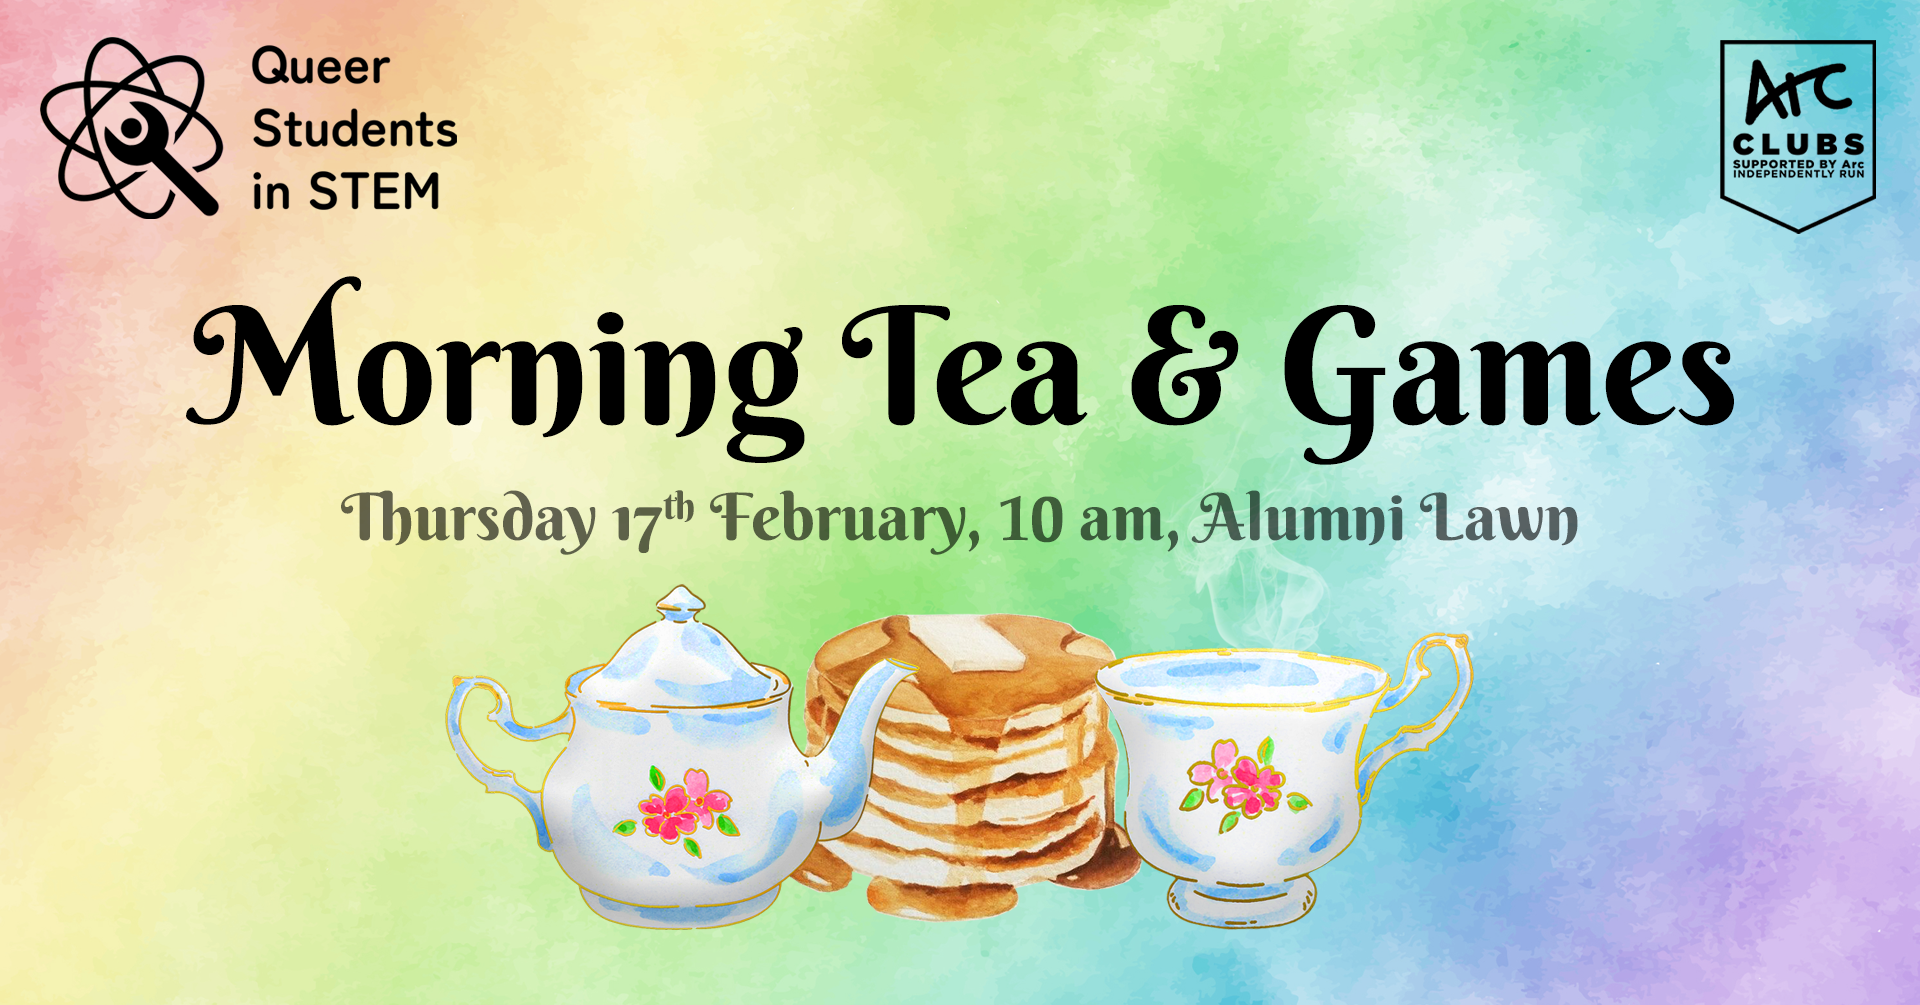
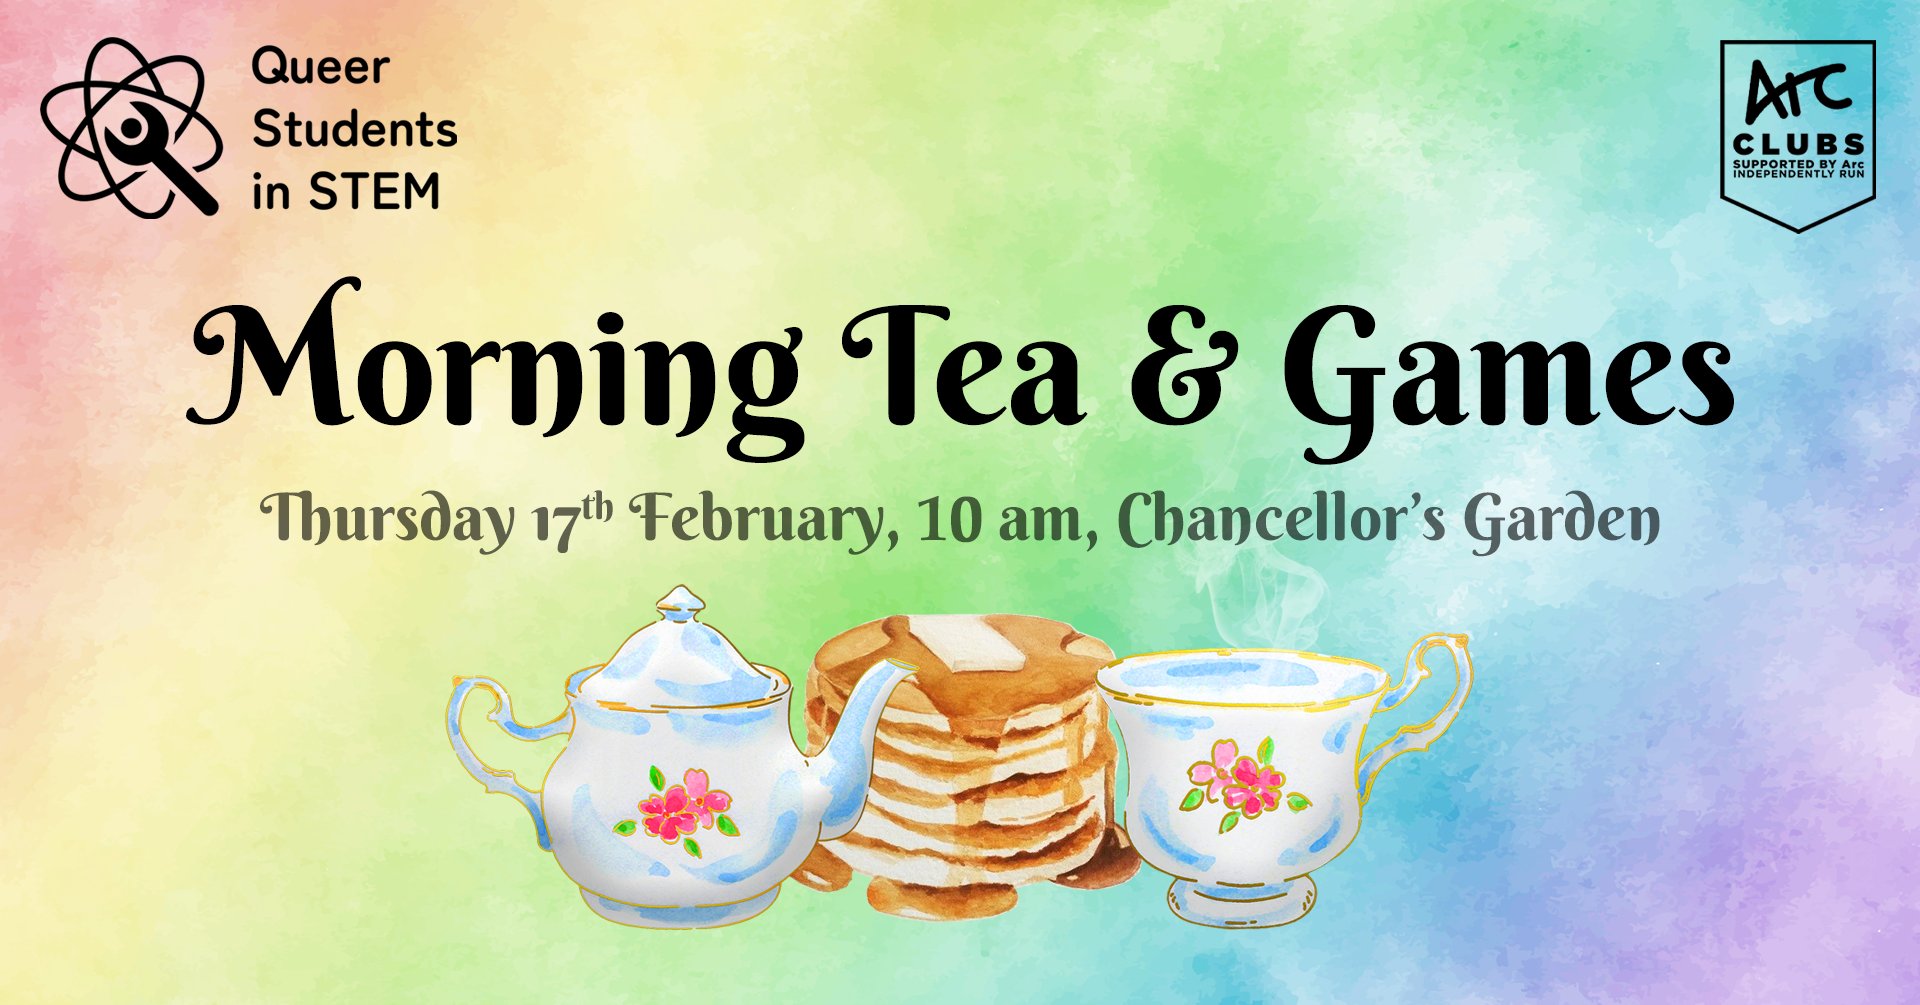
Update event location

Changed region(s): [[0.125, 0.4935, 0.875, 0.5552]]

diff --git a/index.html b/index.html
@@ -84,6 +84,8 @@
 		<div id="events" class="section"></div>
 		<a href="#events"><h2>Events</h2></a>
 
+		<div class="update">Update: The location of Morning Tea & Games has now changed to <a href="https://goo.gl/maps/7pEX6CjwMAmh4R1w9" target="_blank" class="text-link">Chancellor's Garden</a>.</div>
+
 		<div class="events">
 			<a href="https://fb.me/e/1Dbtac3Dl" target="_blank">
 				<img src="week1.png" alt="Morning Tea & Games: Thursday 17th Feburary, 10 am, Alumni Lawn">

diff --git a/index.css b/index.css
@@ -260,6 +260,19 @@ h2 {
 	height: 100%;
 }
 
+.update {
+	display: inline-block;
+	margin-top: 20px;
+	background: hsl(147, 73%, 96%);
+	border-style: solid;
+	border-width: 1px;
+	border-color: hsl(147, 73%, 38%);
+	border-radius: 10px;
+	padding: 5px;
+	padding-left: 10px;
+	padding-right: 10px;
+}
+
 .section {
 	position: relative;
 	top: -50px;
